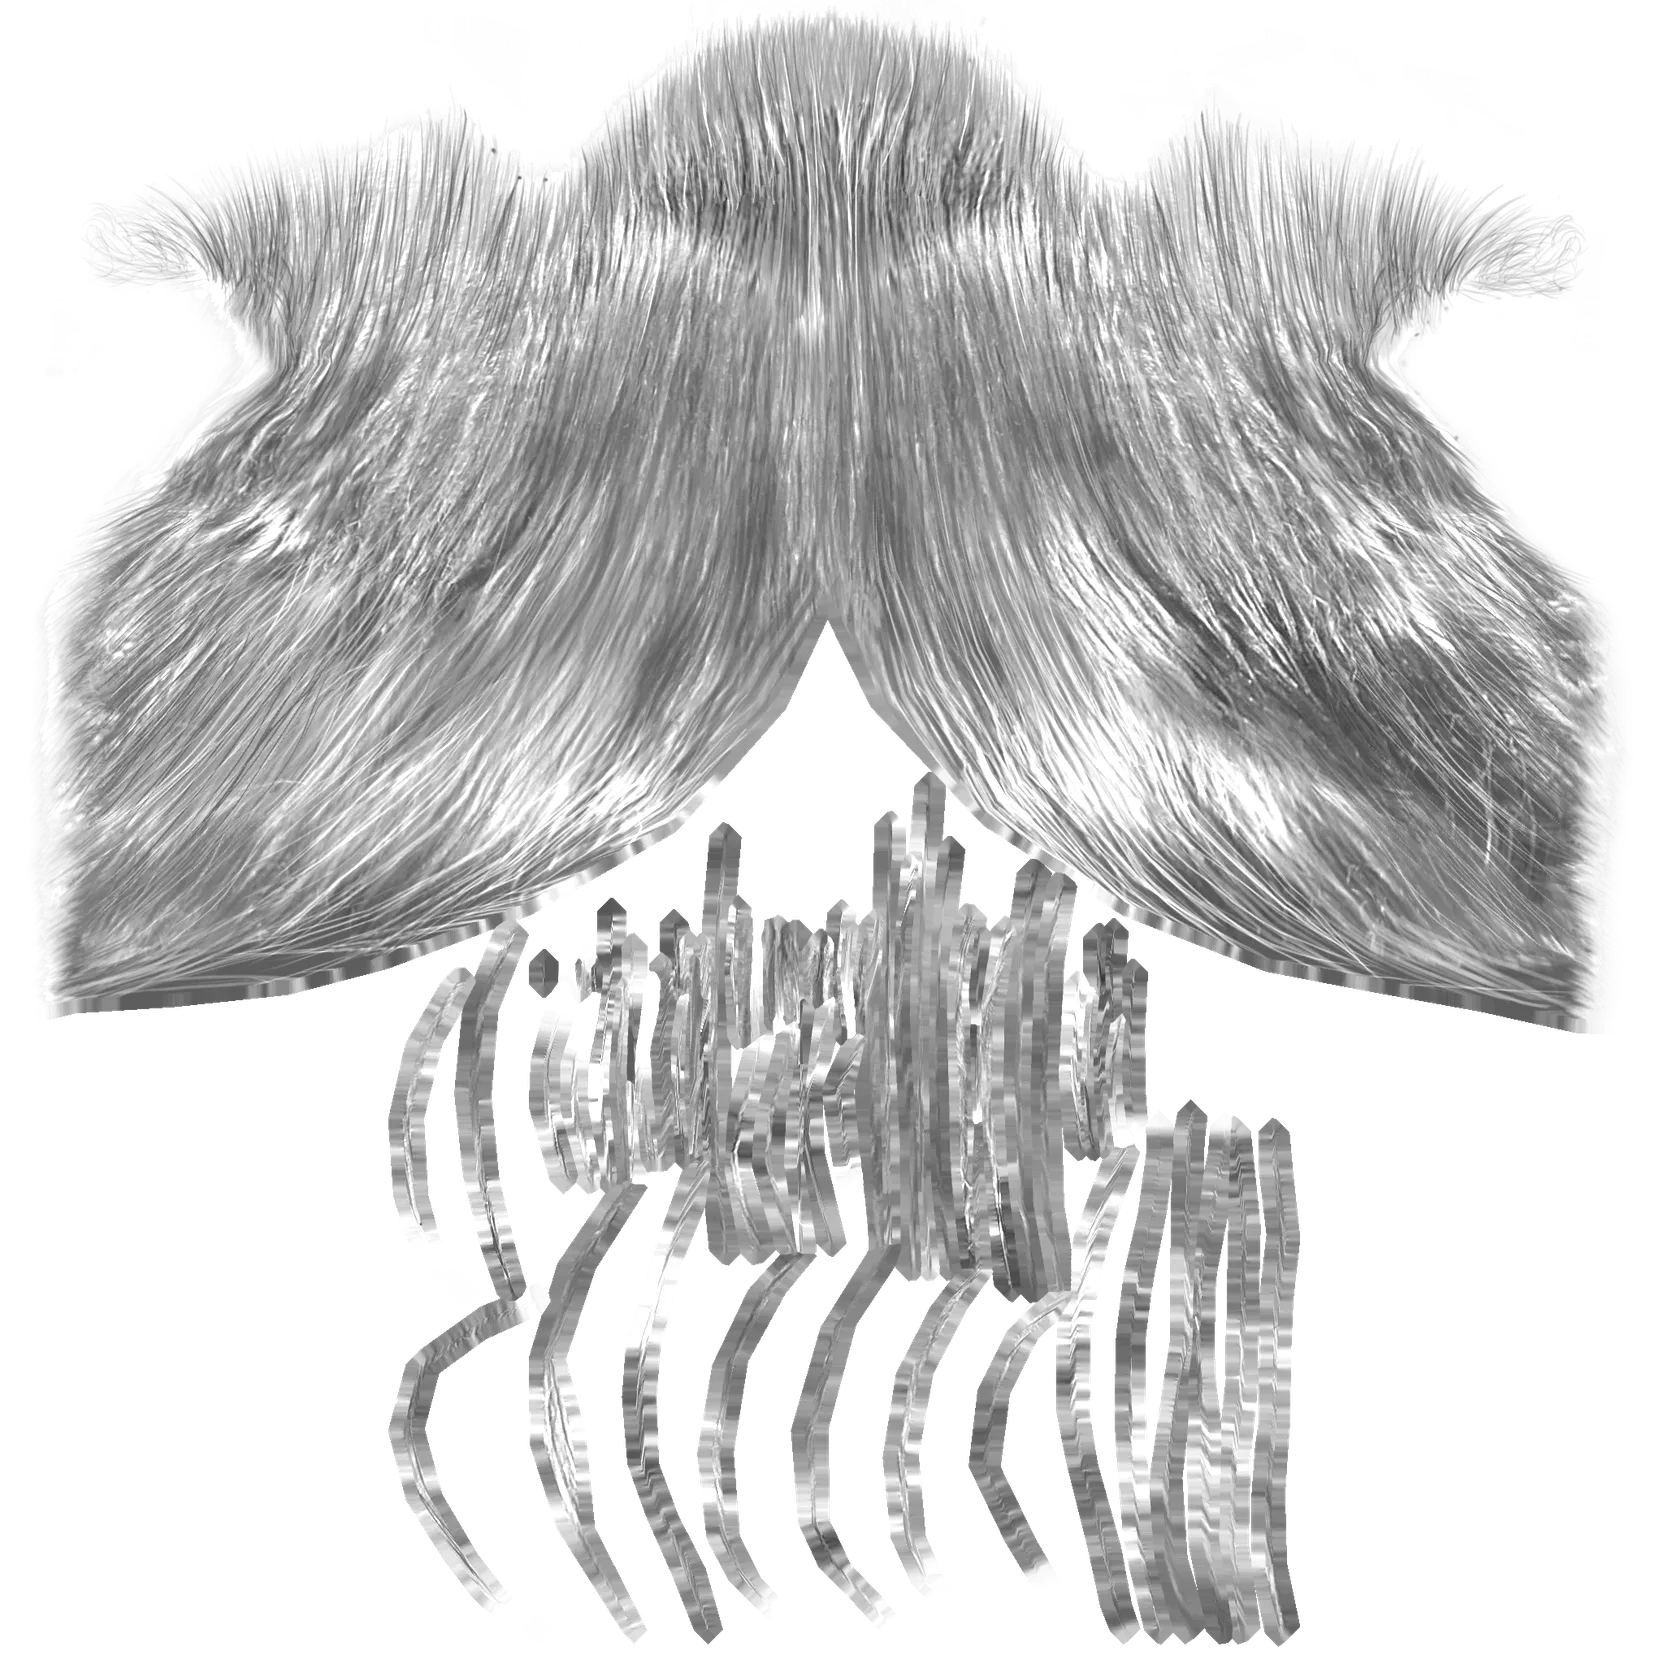
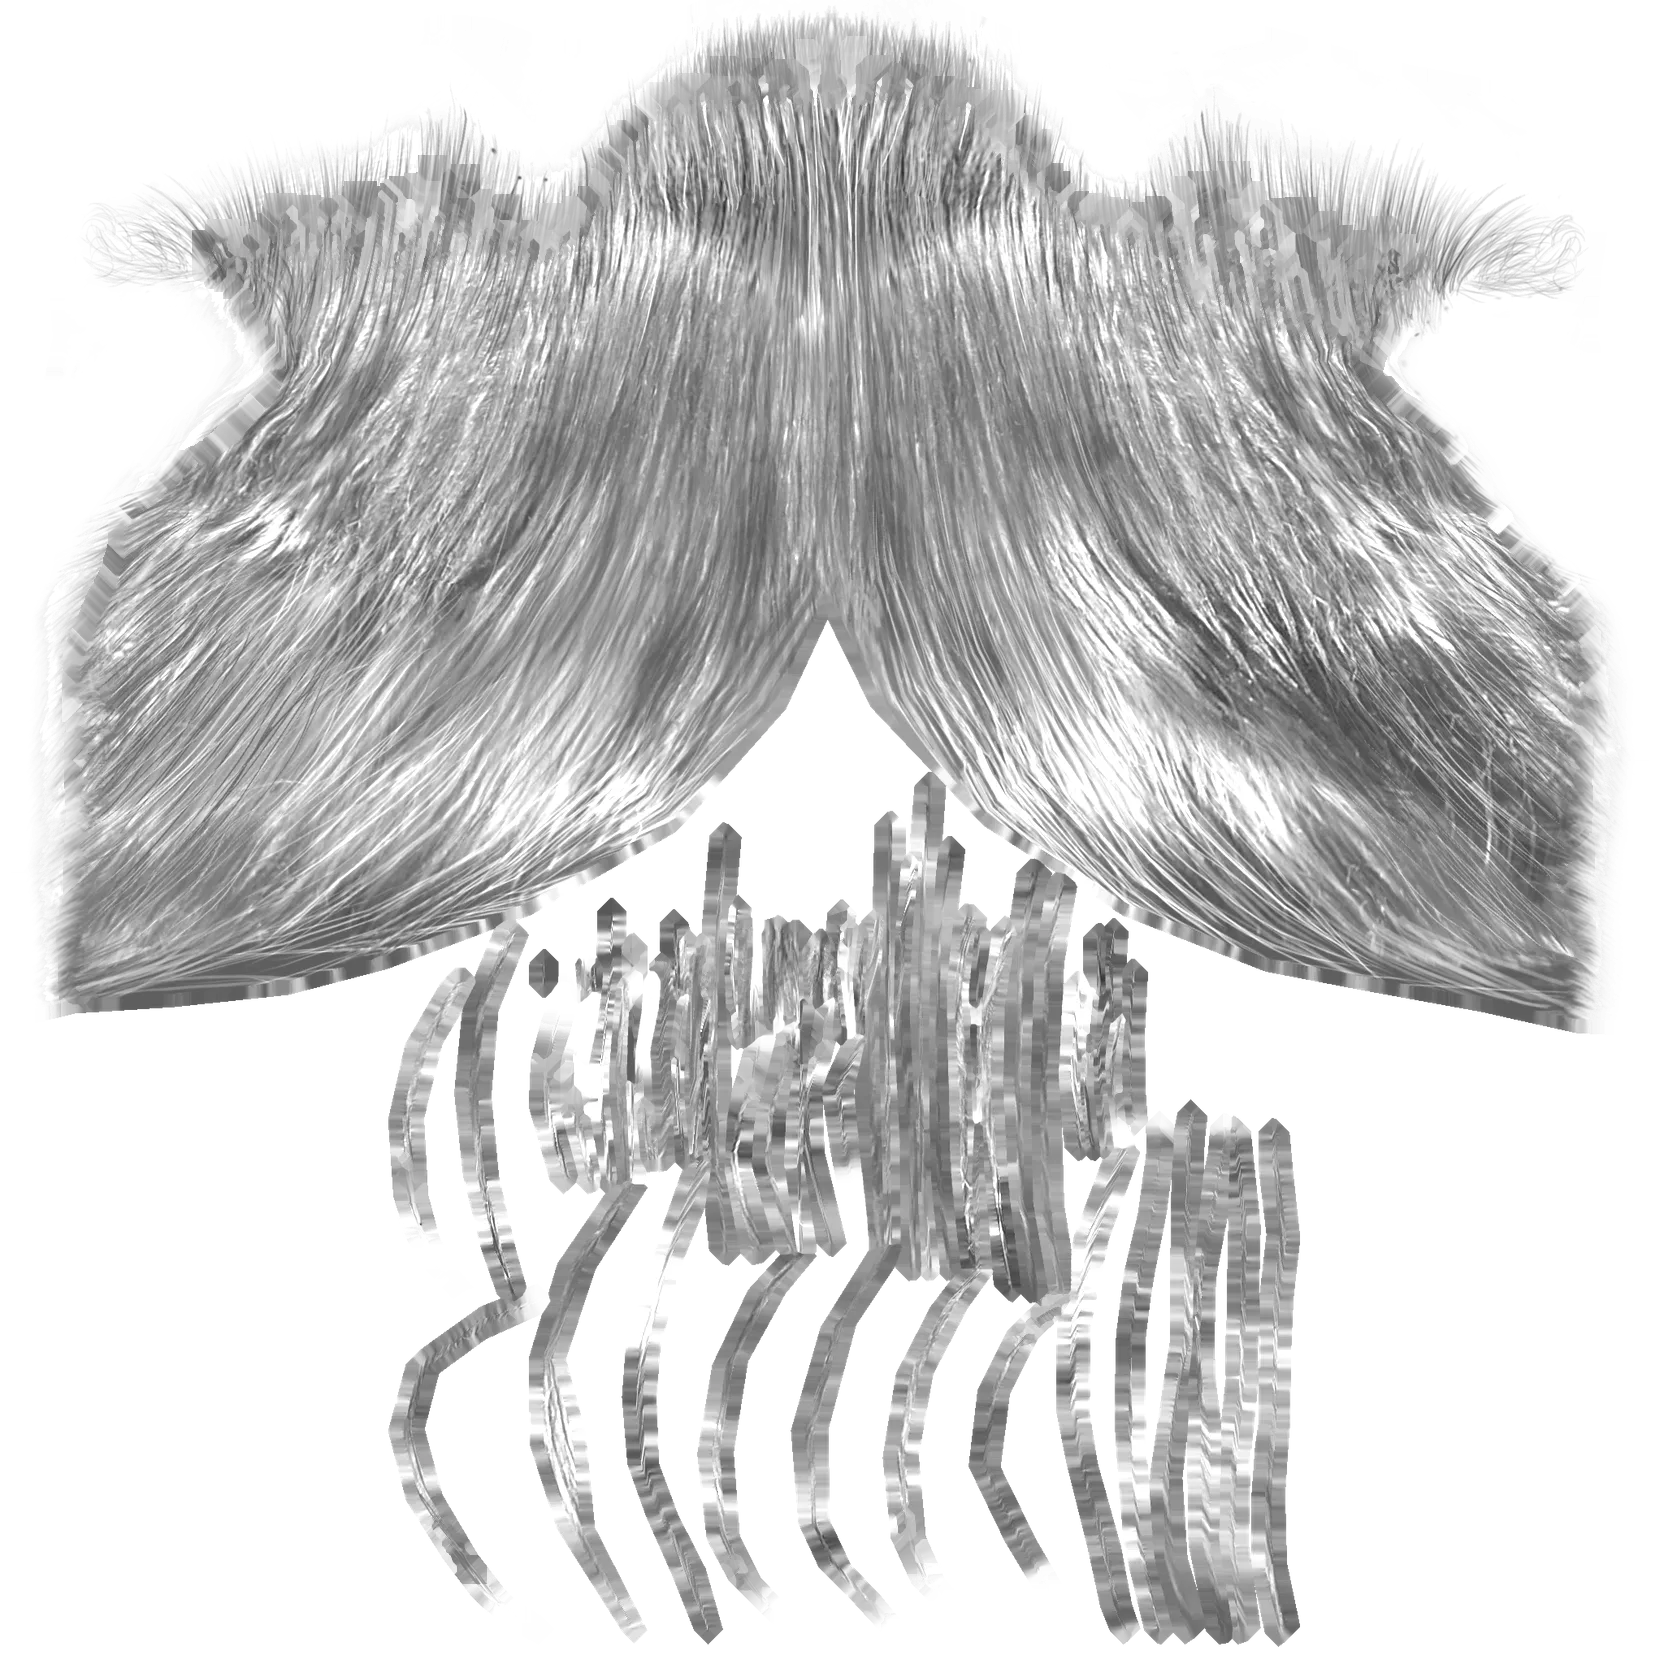
fix: bleed the strand maps' colour into their cards' faint edge texels
At 2048 bob01 drew a thin black wire along its cards' edges. A faint edge
texel carries the atlas's dark backdrop, and the GPU filters a straight-alpha
texture's colour across the edge. The 1024 downsample had blurred some of it
away; shipped at the source's size, nothing did. Lossy WebP also rewrote the
grey the packer gave clear texels.

scripts/lib/edgeBleed.ts gives every texel below alpha 250 the mean colour
of its trusted neighbours, sixteen passes out, which is what premultiplied
filtering would show. writeStrandMap bleeds the atlas before the map is
made, so the strand-mean normalisation counts the edge as drawn, and bleeds
the map after, over its flat clear-texel fill. WebP now encodes with exact,
so the bled colour survives. Edge texels darker than every opaque neighbour
by over 24 levels fall from 3.5% to 0.04% in bob01, and no style exceeds
0.6%; the hair pack test now holds every style under 1%.

Claude-Session: https://claude.ai/code/session_018c2hXVLdDb8BTFpxwP3foX

diff --git a/tests/hairPack.test.ts b/tests/hairPack.test.ts
@@ -135,8 +135,38 @@ describe("a style's strand map", () => {
   /** What each map measures, decoded once: size, grey-ness, mean linear luminance, share of clear texels. */
   const measured = new Map<
     string,
-    { size: number; maxChannelGap: number; mean: number; clearShare: number }
+    {
+      size: number;
+      maxChannelGap: number;
+      mean: number;
+      clearShare: number;
+      /** Share of edge texels (faint, beside an opaque one) darker than every opaque neighbour by over 24 levels. */
+      darkEdgeShare: number;
+    }
   >();
+  /** Edge texels darker than every opaque neighbour by over 24 levels, as a share of the edge texels. */
+  const darkEdges = (data: Uint8Array, w: number, h: number) => {
+    let edges = 0;
+    let dark = 0;
+    for (let y = 1; y < h - 1; y++)
+      for (let x = 1; x < w - 1; x++) {
+        const i = y * w + x;
+        if ((data[i * 4 + 3] as number) >= 250) continue;
+        let lo = 255;
+        let n = 0;
+        for (let dy = -1; dy <= 1; dy++)
+          for (let dx = -1; dx <= 1; dx++) {
+            const j = i + dy * w + dx;
+            if ((data[j * 4 + 3] as number) < 250) continue;
+            lo = Math.min(lo, data[j * 4] as number);
+            n++;
+          }
+        if (!n) continue;
+        edges++;
+        if (lo - (data[i * 4] as number) > 24) dark++;
+      }
+    return edges ? dark / edges : 0;
+  };
   beforeAll(async () => {
     for (const s of scalpStyles) {
       const { data, info } = await sharp(path.join(hairDir, s.material.texture as string))
@@ -160,9 +190,18 @@ describe("a style's strand map", () => {
         maxChannelGap: gap,
         mean: sum / weight,
         clearShare: clear / (data.length / 4),
+        darkEdgeShare: darkEdges(new Uint8Array(data), info.width, info.height),
       });
     }
   }, 120_000);
+
+  // A card's faint edge texels once carried the atlas's black backdrop, which
+  // the GPU's filtering drew as a dark wire along the card (bob01 at 2048: 3.5%
+  // of its edge texels; 5.4% at 1024). The packer bleeds the strands' grey into
+  // them (scripts/lib/edgeBleed.ts); what is left is lossy WebP's own rounding.
+  it("draws no dark wire at a card's edge: its faint texels are no darker than the strands beside them", () => {
+    for (const s of scalpStyles) expect(measured.get(s.id)?.darkEdgeShare, s.id).toBeLessThan(0.01);
+  });
 
   it("is grey, and as large as its closest framing needs and its source has, as PROVENANCE.md records", () => {
     const provenance = fs.readFileSync(path.join(hairDir, "PROVENANCE.md"), "utf8");

diff --git a/scripts/lib/edgeBleed.ts b/scripts/lib/edgeBleed.ts
@@ -1,0 +1,58 @@
+/**
+ * Edge bleeding for a straight-alpha RGBA texture: every texel whose colour
+ * cannot be trusted (alpha below `TRUSTED`) takes the mean colour of its
+ * trusted 3×3 neighbours, pass after pass outward from the opaque texels.
+ *
+ * A GPU filters a straight-alpha texture's colour and alpha separately, so at a
+ * cut-out's edge, and in every mip level, a clear or faint texel's colour is
+ * blended into the visible one beside it. An atlas's faint edge texels carry
+ * its backdrop (usually black), and lossy encoding rewrites clear ones, so
+ * without this a card's edge draws as a dark wire. Bled, the colour across the
+ * edge is the opaque side's own, which is what premultiplied filtering would
+ * give. The opaque texels are not touched, nor is any alpha.
+ */
+
+/** Alpha (of 255) from which a texel's colour is its own. */
+export const TRUSTED = 250;
+/** Passes outward: 16 texels covers the edge at every mip level a card uses. */
+export const BLEED_PASSES = 16;
+
+/** Bleeds `rgba` (width × height × 4, 8 bits, straight alpha) in place; returns it. */
+export function bleedEdges(rgba: Uint8Array, width: number, height: number): Uint8Array {
+  const count = width * height;
+  const known = new Uint8Array(count);
+  for (let i = 0; i < count; i++) known[i] = (rgba[i * 4 + 3] as number) >= TRUSTED ? 1 : 0;
+  const next: number[] = [];
+  for (let pass = 0; pass < BLEED_PASSES; pass++) {
+    next.length = 0;
+    for (let y = 0; y < height; y++)
+      for (let x = 0; x < width; x++) {
+        const i = y * width + x;
+        if (known[i]) continue;
+        let r = 0;
+        let g = 0;
+        let b = 0;
+        let n = 0;
+        for (let dy = -1; dy <= 1; dy++)
+          for (let dx = -1; dx <= 1; dx++) {
+            const xx = x + dx;
+            const yy = y + dy;
+            if (xx < 0 || yy < 0 || xx >= width || yy >= height) continue;
+            const j = yy * width + xx;
+            if (!known[j]) continue;
+            r += rgba[j * 4] as number;
+            g += rgba[j * 4 + 1] as number;
+            b += rgba[j * 4 + 2] as number;
+            n++;
+          }
+        if (!n) continue;
+        rgba[i * 4] = Math.round(r / n);
+        rgba[i * 4 + 1] = Math.round(g / n);
+        rgba[i * 4 + 2] = Math.round(b / n);
+        next.push(i);
+      }
+    if (!next.length) break;
+    for (const i of next) known[i] = 1;
+  }
+  return rgba;
+}

diff --git a/tests/edgeBleed.test.ts b/tests/edgeBleed.test.ts
@@ -1,0 +1,51 @@
+import { describe, expect, it } from "vitest";
+import { BLEED_PASSES, bleedEdges } from "../scripts/lib/edgeBleed.ts";
+
+/** An 8×8 card: opaque grey 160 on the left half, a faint black edge column, clear black beyond. */
+function card() {
+  const w = 8;
+  const h = 8;
+  const rgba = new Uint8Array(w * h * 4);
+  for (let y = 0; y < h; y++)
+    for (let x = 0; x < w; x++) {
+      const i = (y * w + x) * 4;
+      const v = x < 4 ? 140 + 10 * (y % 3) : 0;
+      rgba.set([v, v, v, x < 4 ? 255 : x === 4 ? 40 : 0], i);
+    }
+  return { rgba, w, h };
+}
+
+describe("edge bleeding", () => {
+  it("gives a faint or clear texel the colour of the opaque texels beside it, never darker", () => {
+    const { rgba, w, h } = card();
+    bleedEdges(rgba, w, h);
+    for (let y = 0; y < h; y++)
+      for (let x = 4; x < w; x++) {
+        const v = rgba[(y * w + x) * 4] as number;
+        expect(v, `${x},${y}`).toBeGreaterThanOrEqual(140);
+        expect(v, `${x},${y}`).toBeLessThanOrEqual(160);
+      }
+  });
+
+  it("leaves every opaque texel's colour and every alpha as it was", () => {
+    const { rgba, w, h } = card();
+    const before = Uint8Array.from(rgba);
+    bleedEdges(rgba, w, h);
+    for (let i = 0; i < w * h; i++) {
+      expect(rgba[i * 4 + 3]).toBe(before[i * 4 + 3]);
+      if ((before[i * 4 + 3] as number) === 255)
+        expect([...rgba.subarray(i * 4, i * 4 + 3)]).toEqual([
+          ...before.subarray(i * 4, i * 4 + 3),
+        ]);
+    }
+  });
+
+  it("reaches BLEED_PASSES texels out and no further", () => {
+    const w = BLEED_PASSES + 4;
+    const rgba = new Uint8Array(w * 4);
+    rgba.set([200, 200, 200, 255], 0);
+    bleedEdges(rgba, w, 1);
+    expect(rgba[BLEED_PASSES * 4]).toBe(200);
+    expect(rgba[(BLEED_PASSES + 1) * 4]).toBe(0);
+  });
+});

diff --git a/scripts/lib/packHair.ts b/scripts/lib/packHair.ts
@@ -39,6 +39,7 @@ import {
 } from "./bodyHairCards.ts";
 import { readBodyPack } from "./bodyPack.ts";
 import { type CompiledAsset, compileAsset } from "./compileAsset.ts";
+import { bleedEdges } from "./edgeBleed.ts";
 import { compileAuthored } from "./hairCards/compile.ts";
 import { BodySurface, HeadFrame } from "./hairCards/head.ts";
 import {
@@ -158,17 +159,25 @@ export async function writeStrandMap(src: string, dest: string, edge: number, fl
     .ensureAlpha()
     .raw()
     .toBuffer({ resolveWithObject: true });
+  // A card's faint edge texels carry the atlas's dark backdrop; bled from the
+  // strands beside them, the edge filters toward the strands' own colour rather
+  // than drawing a dark wire. Bled before the map is made, so its normalisation
+  // to the strand mean counts the faint edge as it will be drawn; and again
+  // after, so its clear texels carry their neighbours' grey rather than the
+  // map's one flat fill (they weigh nothing in its mean).
   const map = strandMapFromRgba(
-    new Uint8Array(data),
+    bleedEdges(new Uint8Array(data), info.width, info.height),
     info.width,
     info.height,
     flatten === undefined ? {} : { flatten },
   );
+  bleedEdges(map.rgba, info.width, info.height);
   await sharp(Buffer.from(map.rgba), {
     raw: { width: info.width, height: info.height, channels: 4 },
   })
     // Lossy alpha: a strand's edge moving by a level is invisible, and lossless alpha is most of a curly style's size.
-    .webp({ quality: 80, alphaQuality: 85, effort: 4 })
+    // `exact` keeps the bled colour under clear texels, which the encoder would otherwise rewrite.
+    .webp({ quality: 80, alphaQuality: 85, effort: 4, exact: true })
     .toFile(dest);
   return { angle: map.strandAngle, coherence: map.coherence };
 }

diff --git a/packs/hair/data/PROVENANCE.md b/packs/hair/data/PROVENANCE.md
@@ -84,27 +84,27 @@ original than the GPU's own magnification (`scripts/lib/textureSizing.ts`, docs/
 | Output | SHA-256 |
 | --- | --- |
[36 lines of base64/hex data omitted]
